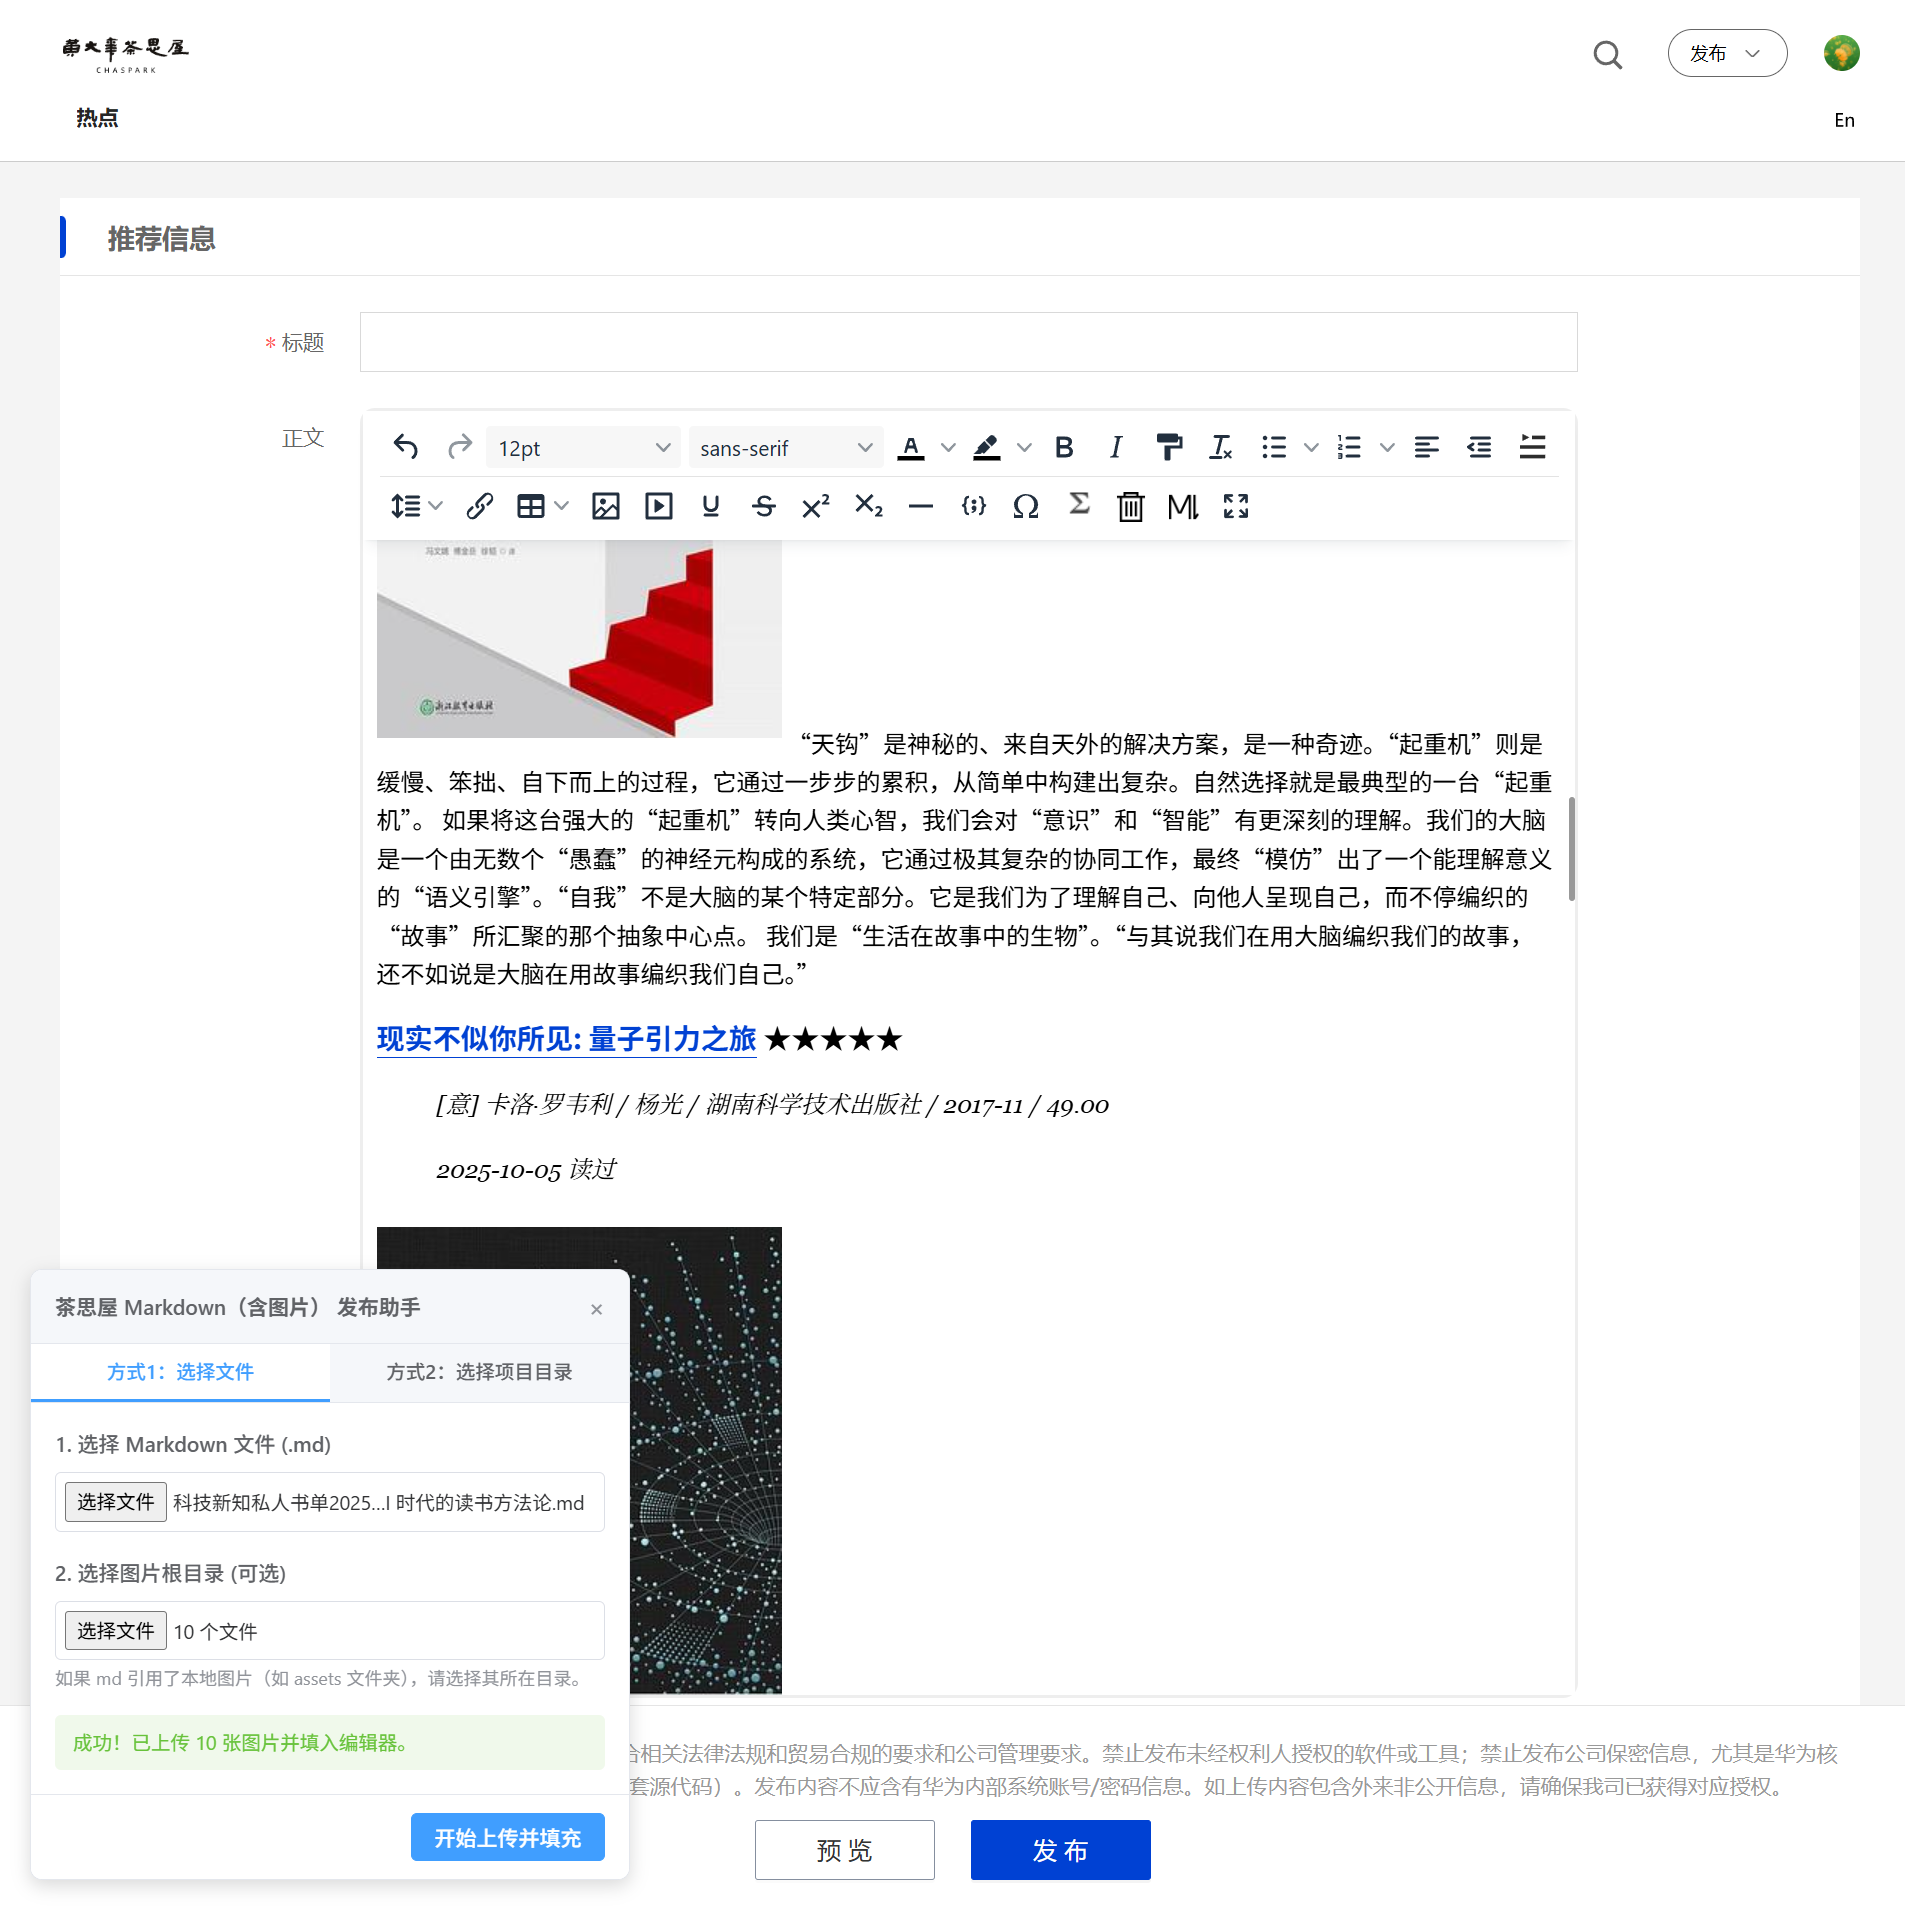
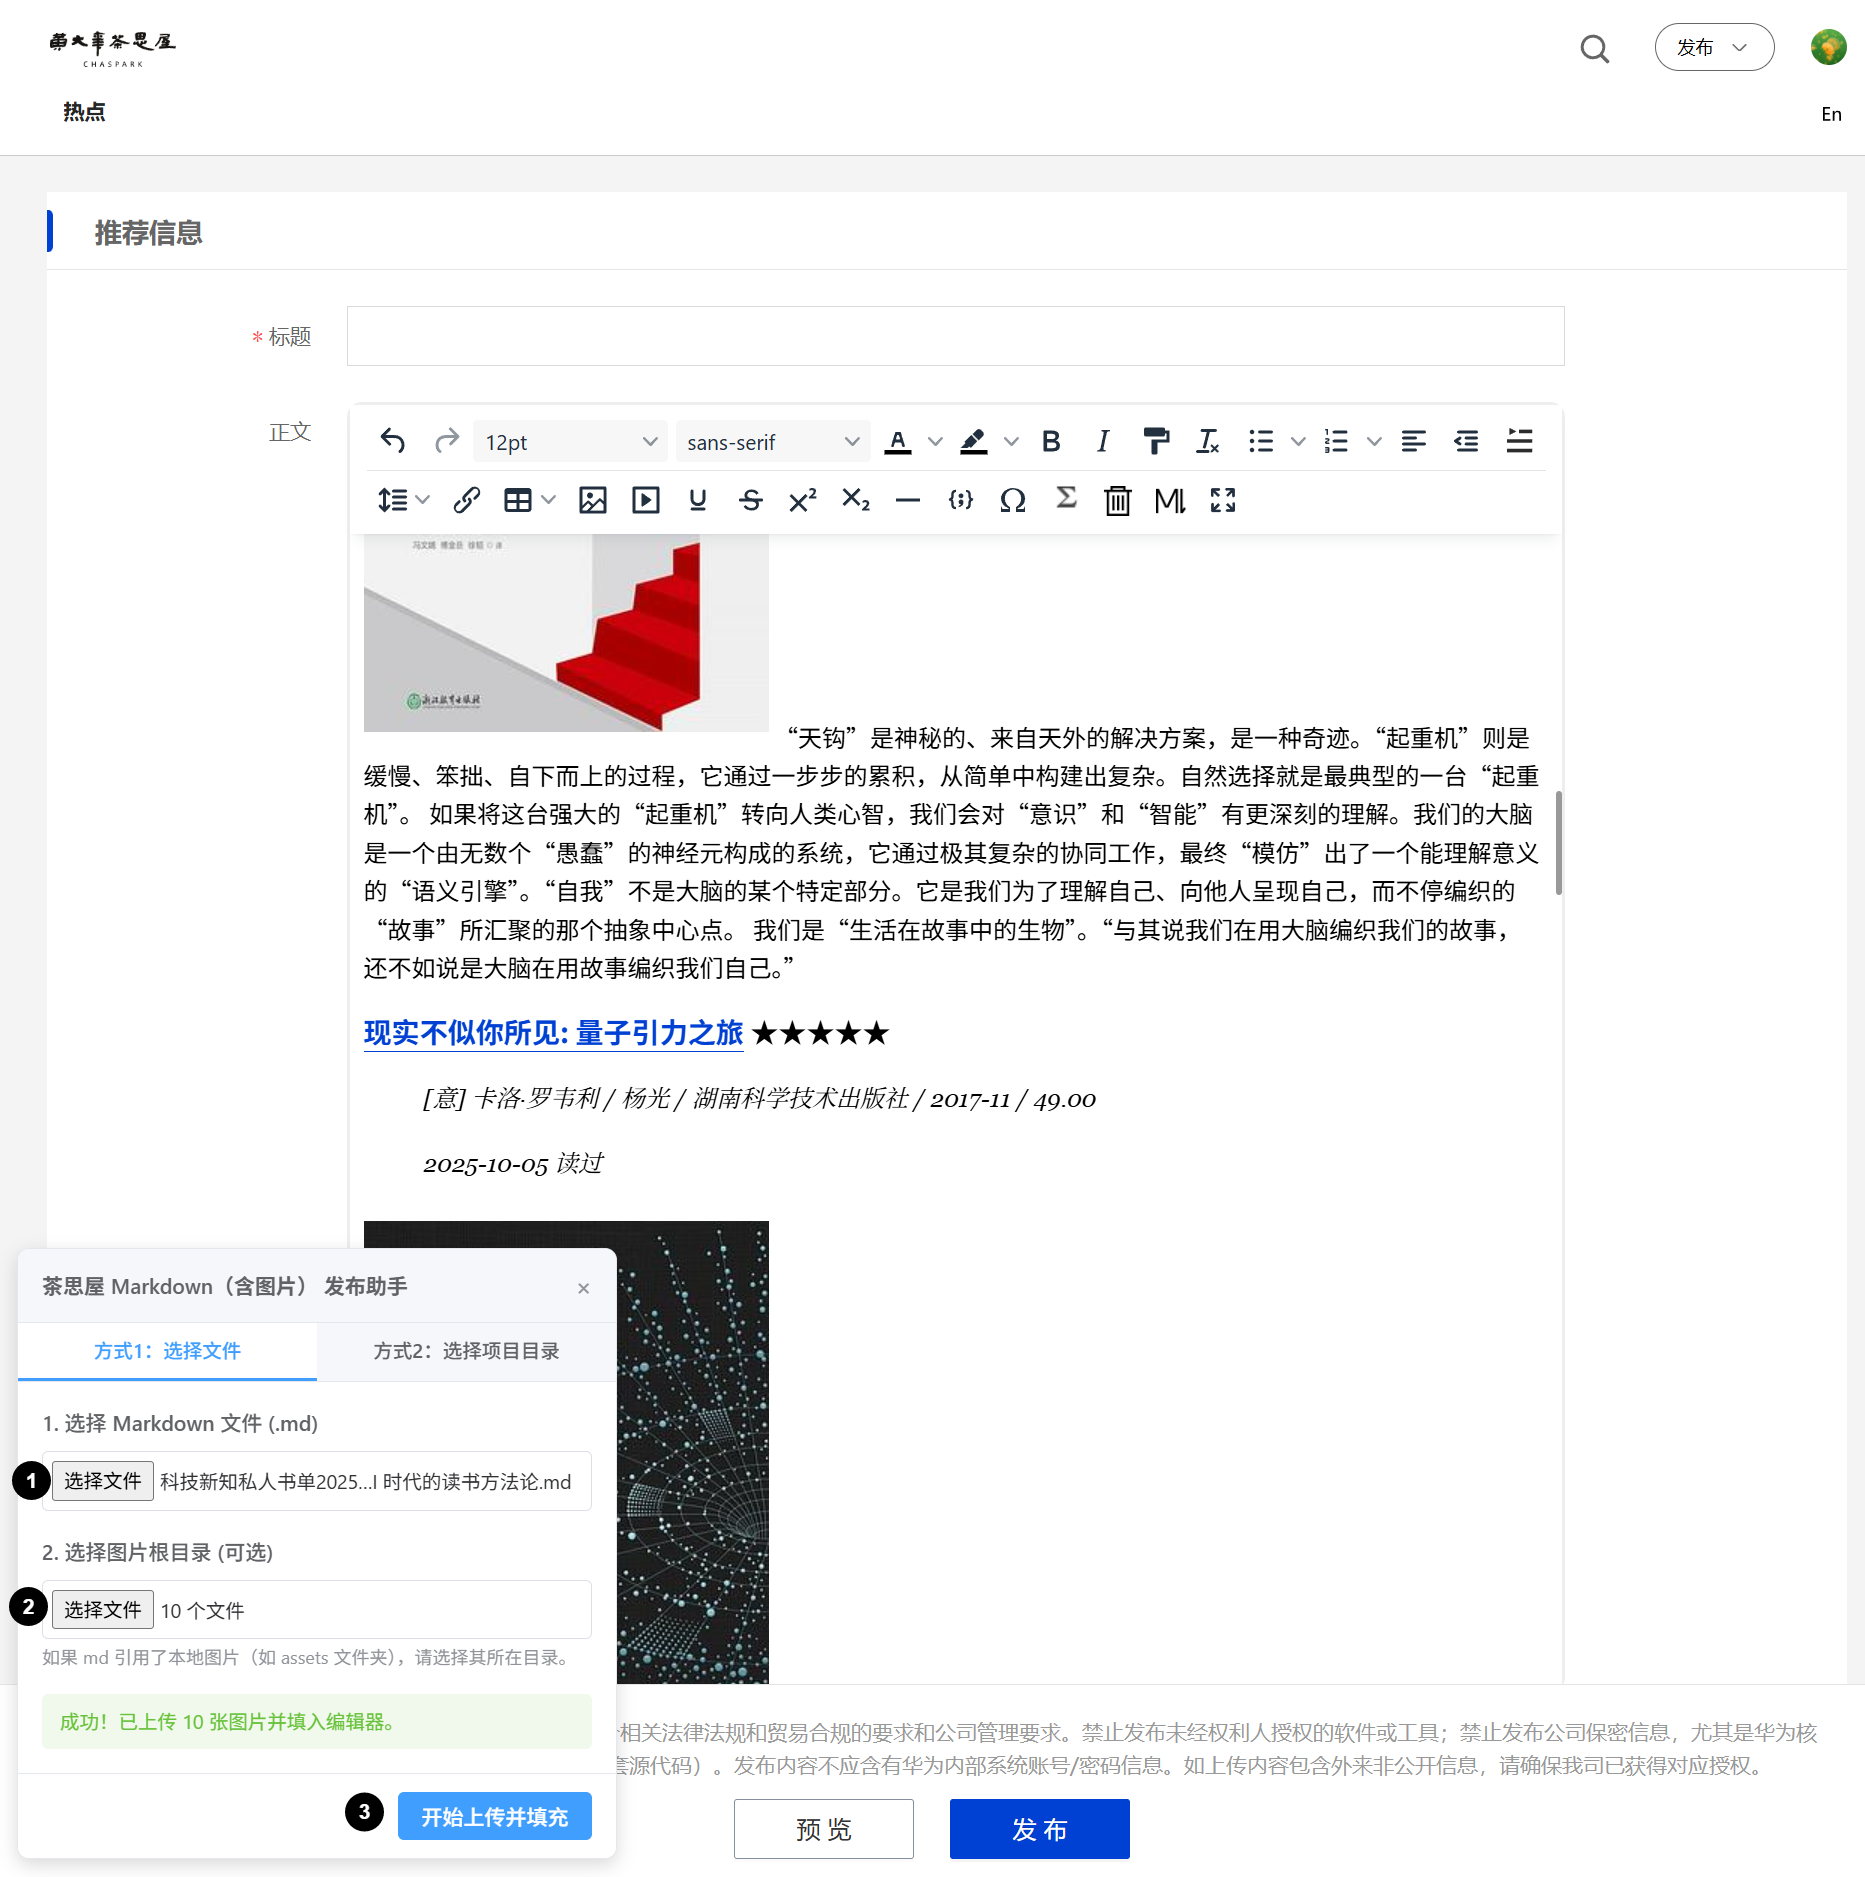
update

diff --git a/Readme.md b/Readme.md
@@ -36,7 +36,7 @@
 - 建议将 Markdown 引用图片的路径设置为**相对路径**（如 `![](assets/image.png)`）。
 
 ### 2. 使用流程
-1. **进入发布页**：手工操作进入黄大年茶思屋网站“学术热点”发布页面，或者在该网站其他页面点击插件图标，会引导您进入发布页面。
+1. **进入发布页**：手工操作进入[黄大年茶思屋网站“学术热点”发布页面](https://www.chaspark.com/#/hotspots/publish)，或者在该网站其他页面点击插件图标，会引导您进入发布页面。
 2. **导入内容**（本项目 example_doc 目录下包含一个多图片 Markdown 示例文件，可供测试）：
    - **方式 1**：选择您的 Markdown 文件，以及选择图片所在的根目录。
    - **方式 2**：直接选择 Markdown 文件所在项目文件夹（适合该目录仅包含唯一 Markdown 文件且相关图片也包含在此目录下的情况）。
@@ -45,7 +45,7 @@
    - 替换所有图片引用为最新的网络地址。
    - 将渲染后的 HTML 自动注入发布页面编辑器。
 
-![多图片 Markdown 内容发布示例](image.png)
+![image-20251229233258997](image.png)
 
 ---
 
